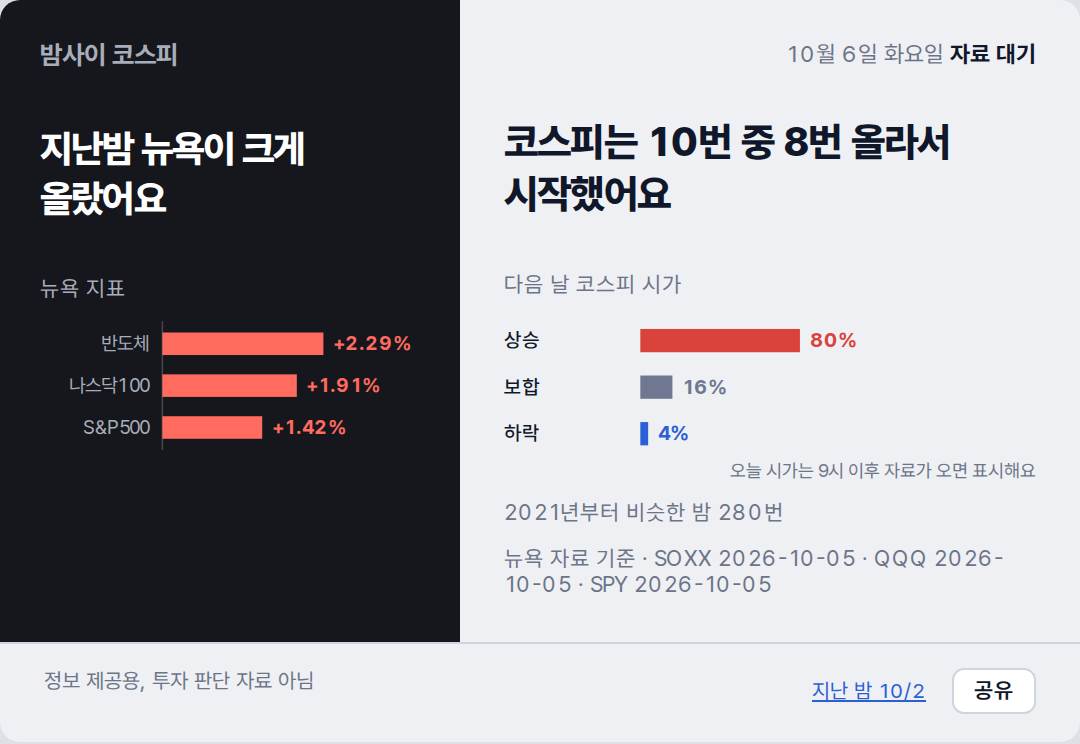
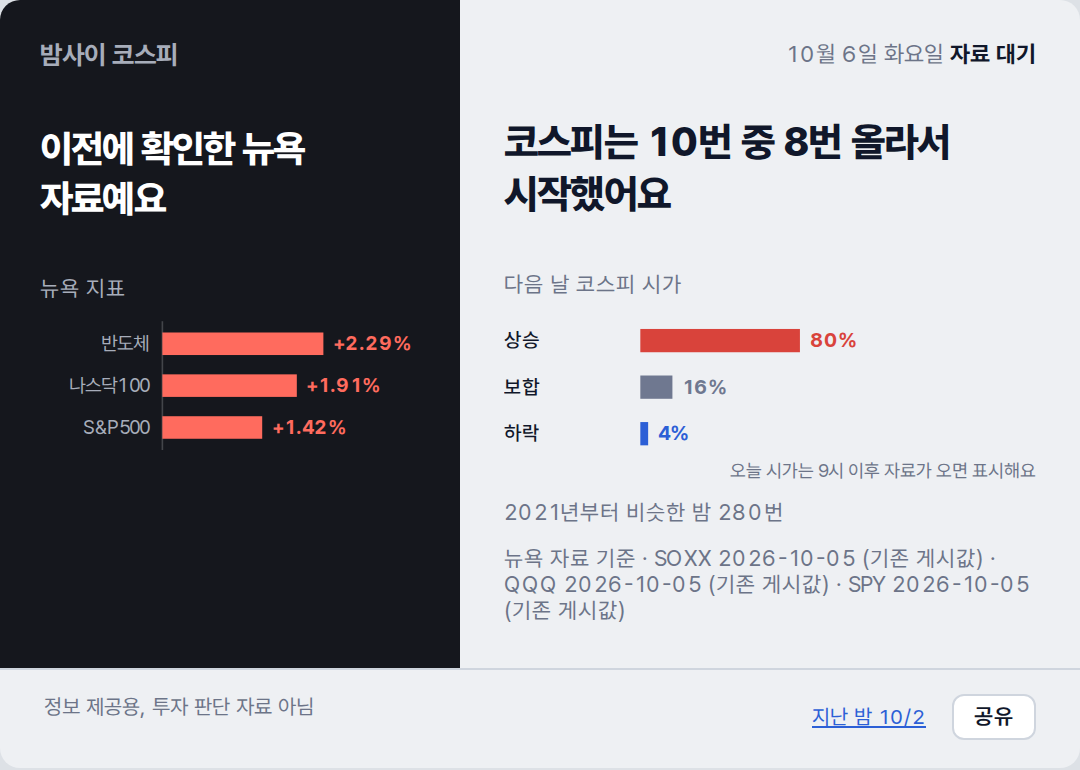
deploy: c0d07a214321b41f7cf333fef670b17ffe5b5852

diff --git a/2026-10-06/index.html b/2026-10-06/index.html
@@ -2,7 +2,7 @@
 <title>밤사이 코스피 · 2026-10-06</title>
 <meta name="description" content="전일 코스피 마감에서 밤사이 뉴욕을 거쳐 오늘 코스피 시가까지, 한 장.">
 <meta property="og:type" content="article"><meta property="og:site_name" content="밤사이 코스피"><meta property="og:url" content="https://mjs0611.github.io/kospi-relay/2026-10-06/">
-<meta property="og:title" content="지난밤 뉴욕이 크게 올랐어요"><meta property="og:description" content="코스피는 10번 중 8번 올라서 시작했어요">
+<meta property="og:title" content="이전에 확인한 뉴욕 자료예요"><meta property="og:description" content="코스피는 10번 중 8번 올라서 시작했어요">
 <meta property="og:image" content="https://mjs0611.github.io/kospi-relay/2026-10-06/relay.png"><meta property="og:image:width" content="1080"><meta name="twitter:card" content="summary_large_image">
 <link rel="stylesheet" href="https://cdn.jsdelivr.net/gh/orioncactus/pretendard@v1.3.9/dist/web/variable/pretendardvariable-dynamic-subset.min.css">
 <style>
@@ -26,7 +26,7 @@ footer a{color:#2C5FD6}
 .share{margin-left:10px;border:1px solid #CFD5DE;background:#FFF;color:#10172A;border-radius:6px;padding:4px 10px;font:600 11px var(--sans);cursor:pointer}
 @media (max-width:480px){.sheet{grid-template-columns:1fr}.cond{margin-top:18px}.claim{margin-top:4px}}
 </style></head><body><div class="sheet">
-<section class="night"><p class="brand">밤사이 코스피</p><p class="cond">지난밤 뉴욕이 크게 올랐어요</p><p class="lab">뉴욕 지표</p><svg viewBox="0 0 236 84" xmlns="http://www.w3.org/2000/svg" font-family="var(--sans)" font-size="12">
+<section class="night"><p class="brand">밤사이 코스피</p><p class="cond">이전에 확인한 뉴욕 자료예요</p><p class="lab">뉴욕 지표</p><svg viewBox="0 0 236 84" xmlns="http://www.w3.org/2000/svg" font-family="var(--sans)" font-size="12">
 <line x1="76" y1="2" x2="76" y2="82" stroke="var(--rule)" stroke-width="1"/>
 <text x="68" y="20" text-anchor="end" fill="var(--muted)">반도체</text>
 <rect x="76" y="9" width="100.0" height="14" fill="var(--up)"/>
@@ -49,12 +49,12 @@ footer a{color:#2C5FD6}
 <rect x="82" y="65" width="4.7" height="14" fill="var(--down)"/>
 <text x="92.7" y="76" fill="var(--down)" font-weight="700">4%</text>
 <text x="320" y="98" text-anchor="end" fill="var(--muted)" font-size="11">오늘 시가는 9시 이후 자료가 오면 표시해요</text>
-</svg><p class="cap">2021년부터 비슷한 밤 280번</p><p class="cap">뉴욕 자료 기준 · SOXX 2026-10-05 · QQQ 2026-10-05 · SPY 2026-10-05</p></section>
+</svg><p class="cap">2021년부터 비슷한 밤 280번</p><p class="cap">뉴욕 자료 기준 · SOXX 2026-10-05 (기존 게시값) · QQQ 2026-10-05 (기존 게시값) · SPY 2026-10-05 (기존 게시값)</p></section>
 <footer><span>정보 제공용, 투자 판단 자료 아님</span><span style="white-space:nowrap"><a href="../2026-10-02/">지난 밤 10/2</a> <button class="share" type="button">공유</button></span></footer>
 <script>
 /* 공유: Web Share가 있으면 시스템 공유 시트, 없으면 링크 복사. 링크는 이 날짜 페이지(OG 카드 붙음) */
 document.querySelector('.share').addEventListener('click', async function () {
-  var url = 'https://mjs0611.github.io/kospi-relay/2026-10-06/', text = "지난밤 뉴욕이 크게 올랐어요. 코스피는 10번 중 8번 올라서 시작했어요";
+  var url = 'https://mjs0611.github.io/kospi-relay/2026-10-06/', text = "이전에 확인한 뉴욕 자료예요. 코스피는 10번 중 8번 올라서 시작했어요";
   try { if (navigator.share) { await navigator.share({ title: '밤사이 코스피', text: text, url: url }); return; } } catch (e) { if (e && e.name === 'AbortError') return; }
   try { await navigator.clipboard.writeText(text + '\n' + url); this.textContent = '링크 복사됨'; } catch (e) { location.href = url; }
 });

diff --git a/index.html b/index.html
@@ -2,7 +2,7 @@
 <title>밤사이 코스피 · 2026-10-06</title>
 <meta name="description" content="전일 코스피 마감에서 밤사이 뉴욕을 거쳐 오늘 코스피 시가까지, 한 장.">
 <meta property="og:type" content="article"><meta property="og:site_name" content="밤사이 코스피"><meta property="og:url" content="https://mjs0611.github.io/kospi-relay/2026-10-06/">
-<meta property="og:title" content="지난밤 뉴욕이 크게 올랐어요"><meta property="og:description" content="코스피는 10번 중 8번 올라서 시작했어요">
+<meta property="og:title" content="이전에 확인한 뉴욕 자료예요"><meta property="og:description" content="코스피는 10번 중 8번 올라서 시작했어요">
 <meta property="og:image" content="https://mjs0611.github.io/kospi-relay/2026-10-06/relay.png"><meta property="og:image:width" content="1080"><meta name="twitter:card" content="summary_large_image">
 <link rel="stylesheet" href="https://cdn.jsdelivr.net/gh/orioncactus/pretendard@v1.3.9/dist/web/variable/pretendardvariable-dynamic-subset.min.css">
 <style>
@@ -26,7 +26,7 @@ footer a{color:#2C5FD6}
 .share{margin-left:10px;border:1px solid #CFD5DE;background:#FFF;color:#10172A;border-radius:6px;padding:4px 10px;font:600 11px var(--sans);cursor:pointer}
 @media (max-width:480px){.sheet{grid-template-columns:1fr}.cond{margin-top:18px}.claim{margin-top:4px}}
 </style></head><body><div class="sheet">
-<section class="night"><p class="brand">밤사이 코스피</p><p class="cond">지난밤 뉴욕이 크게 올랐어요</p><p class="lab">뉴욕 지표</p><svg viewBox="0 0 236 84" xmlns="http://www.w3.org/2000/svg" font-family="var(--sans)" font-size="12">
+<section class="night"><p class="brand">밤사이 코스피</p><p class="cond">이전에 확인한 뉴욕 자료예요</p><p class="lab">뉴욕 지표</p><svg viewBox="0 0 236 84" xmlns="http://www.w3.org/2000/svg" font-family="var(--sans)" font-size="12">
 <line x1="76" y1="2" x2="76" y2="82" stroke="var(--rule)" stroke-width="1"/>
 <text x="68" y="20" text-anchor="end" fill="var(--muted)">반도체</text>
 <rect x="76" y="9" width="100.0" height="14" fill="var(--up)"/>
@@ -49,12 +49,12 @@ footer a{color:#2C5FD6}
 <rect x="82" y="65" width="4.7" height="14" fill="var(--down)"/>
 <text x="92.7" y="76" fill="var(--down)" font-weight="700">4%</text>
 <text x="320" y="98" text-anchor="end" fill="var(--muted)" font-size="11">오늘 시가는 9시 이후 자료가 오면 표시해요</text>
-</svg><p class="cap">2021년부터 비슷한 밤 280번</p><p class="cap">뉴욕 자료 기준 · SOXX 2026-10-05 · QQQ 2026-10-05 · SPY 2026-10-05</p></section>
+</svg><p class="cap">2021년부터 비슷한 밤 280번</p><p class="cap">뉴욕 자료 기준 · SOXX 2026-10-05 (기존 게시값) · QQQ 2026-10-05 (기존 게시값) · SPY 2026-10-05 (기존 게시값)</p></section>
 <footer><span>정보 제공용, 투자 판단 자료 아님</span><span style="white-space:nowrap"><a href="./2026-10-02/">지난 밤 10/2</a> <button class="share" type="button">공유</button></span></footer>
 <script>
 /* 공유: Web Share가 있으면 시스템 공유 시트, 없으면 링크 복사. 링크는 이 날짜 페이지(OG 카드 붙음) */
 document.querySelector('.share').addEventListener('click', async function () {
-  var url = 'https://mjs0611.github.io/kospi-relay/2026-10-06/', text = "지난밤 뉴욕이 크게 올랐어요. 코스피는 10번 중 8번 올라서 시작했어요";
+  var url = 'https://mjs0611.github.io/kospi-relay/2026-10-06/', text = "이전에 확인한 뉴욕 자료예요. 코스피는 10번 중 8번 올라서 시작했어요";
   try { if (navigator.share) { await navigator.share({ title: '밤사이 코스피', text: text, url: url }); return; } } catch (e) { if (e && e.name === 'AbortError') return; }
   try { await navigator.clipboard.writeText(text + '\n' + url); this.textContent = '링크 복사됨'; } catch (e) { location.href = url; }
 });
